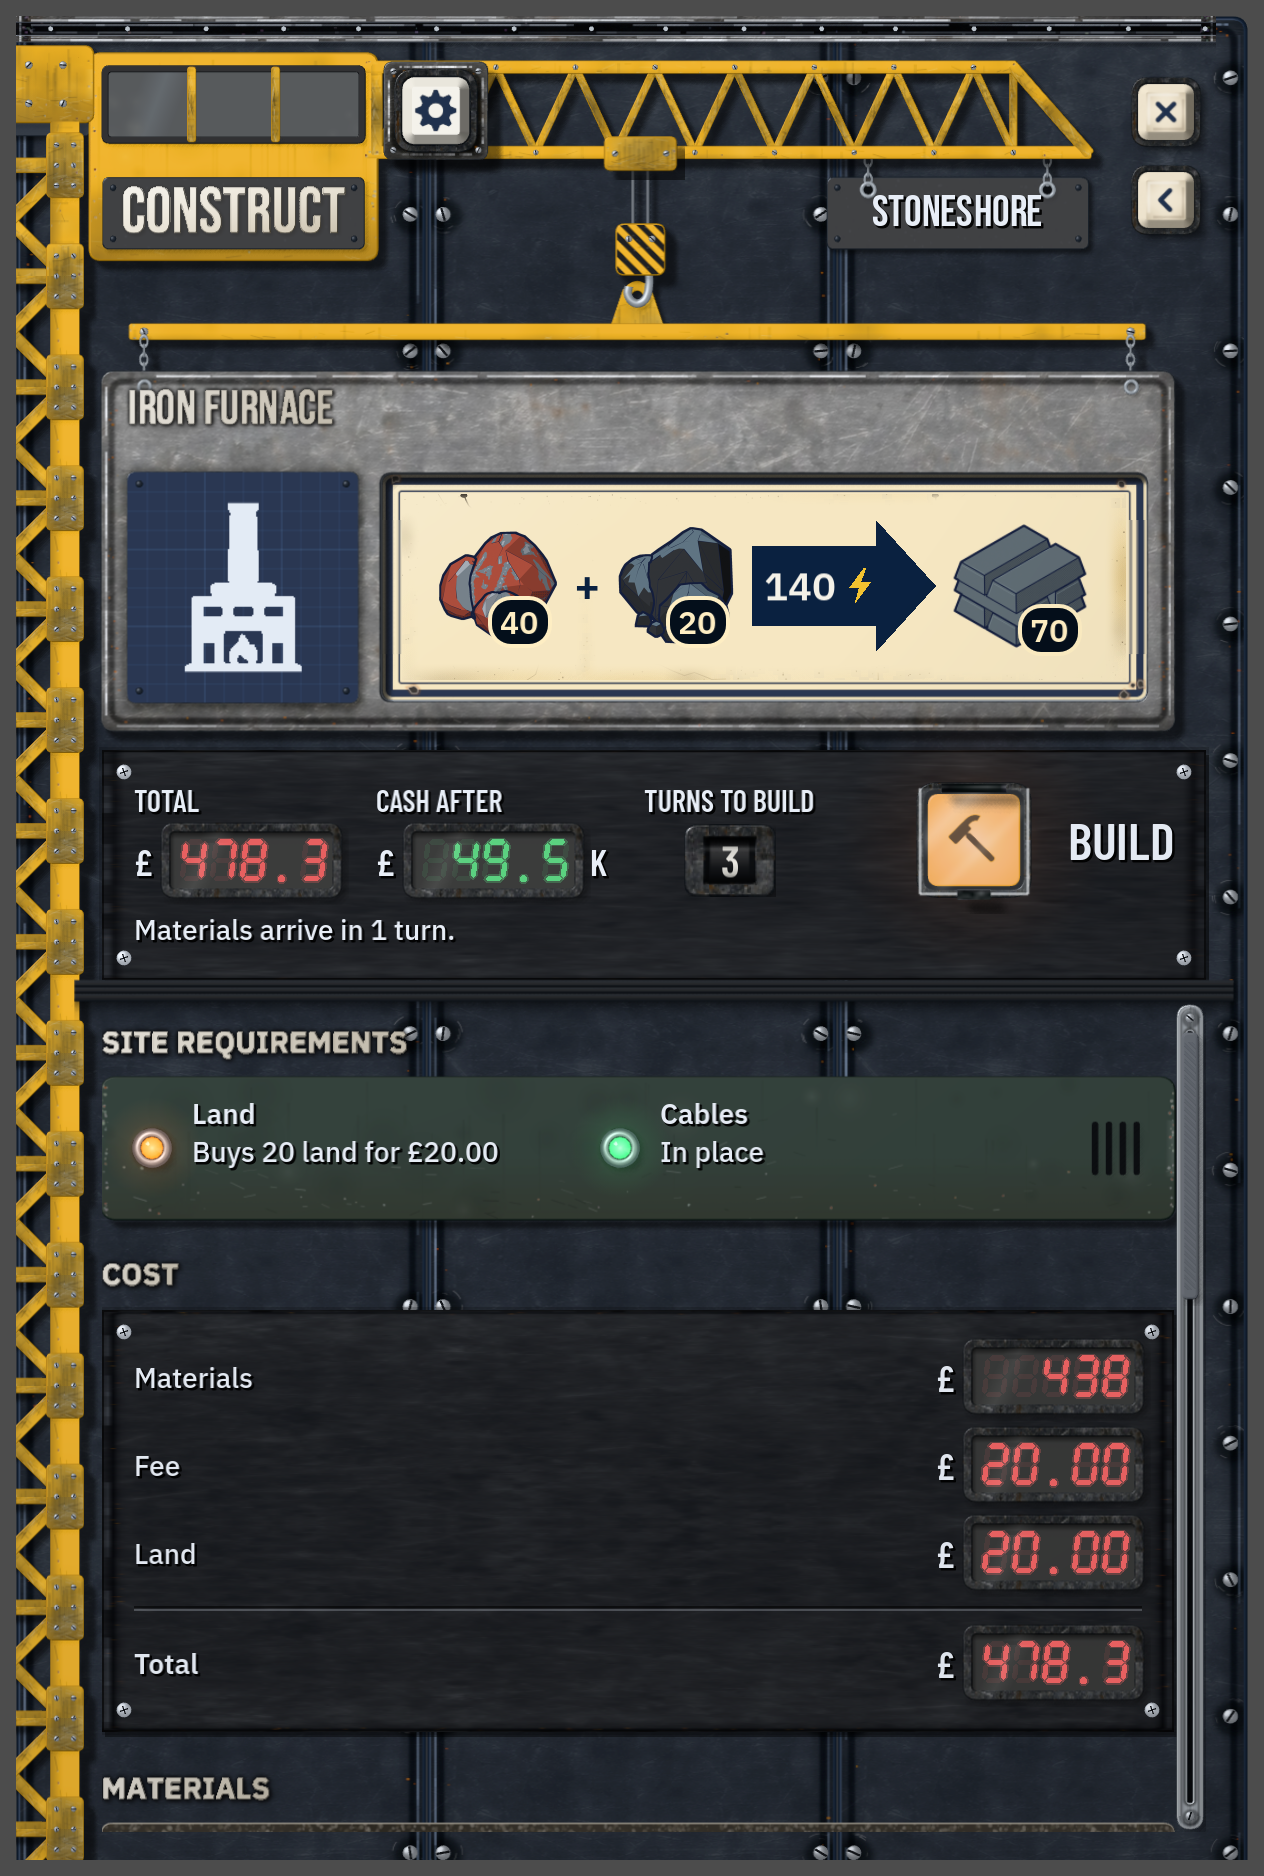
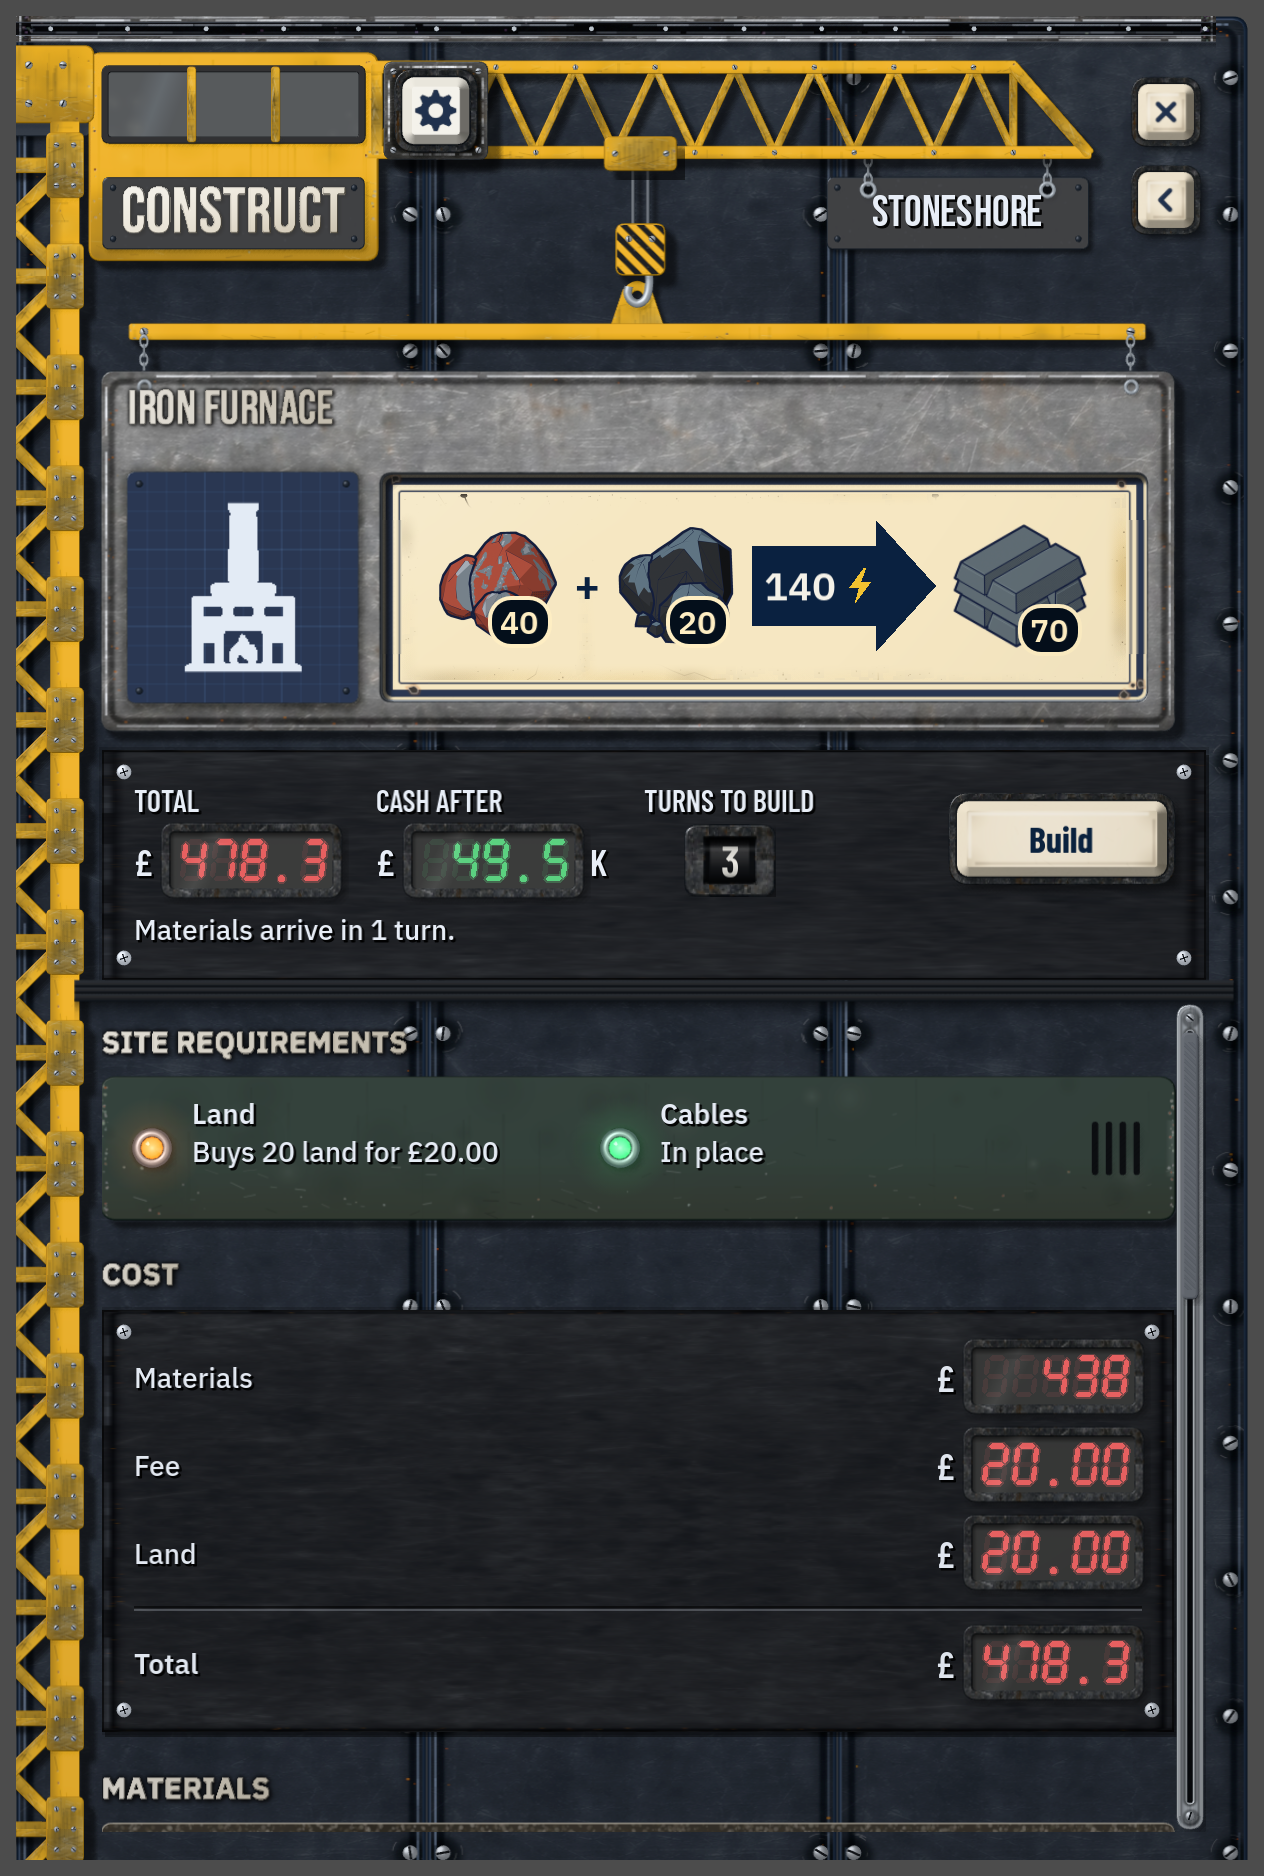
Construct panel DS2: a plain Build key, and a refused press lights what blocks
The owner: the Build key stays high in the verdict, quick to decide, but as
a plain cream key rather than the guarded cap. Refused, it prints red, and
a press makes the part that blocks glow instead of building: the money
(Cash after), the land's row, or the requirement that blocks.

Land follows the Construct setting Auto-buy land until the player chooses
on the build order; with it off and the tile short, the Land row offers a
Buy land key on a pillar of its own.

Changed region(s): [[0.7097, 0.4019, 0.9256, 0.4947]]

diff --git a/price-of-everything-0.1/docs/construct-ds2-plan.md b/price-of-everything-0.1/docs/construct-ds2-plan.md
@@ -113,9 +113,10 @@ Each body is reviewed against §2's scenarios, up to three rounds, as the tile v
 **Built so far (27 September 2026).**
 
 - **The panel.** `scripts/construct_ds2/construct_ds2.gd` extends `construct_panel_v2.gd`: every way in, the state, Confirm and the handles the tutorial and tests look up are the parent's; the shell and the build order are its own. `bottom_menu.gd` builds it in place of today's panel while the flag is on and rebuilds it when the flag flips (`_construct_v2_script`, `_on_construct_ds2_changed`), under the same name, `ConstructPanelV2`.
-- **The build order** (`scripts/construct_ds2/build_order.gd`): the site board on the hook (the name raised, the icon printed flat as a blueprint from its emblem's silhouette, `flat_print.gdshader`, the recipe on an enamel sign in the board's recess), the verdict on the cabin desk (Total and Cash after on LEDs, Turns to build on a drum, when the materials arrive, the guarded Build key named `BuildConfirmButton`), the seam; then the requirements on the feeder pillar (two lamps a pillar), the cost in the cabin, the materials yard (a good on its pallet in its well, a white label with what is on the tile and elsewhere, the Materials from knob in the sixth bay, which sets `MatchState.pending_build_material_source`), the outlook on the programme board and the land lot. The Build key's refusal is the quote's first block (`_v3_confirm_block_reason`).
+- **The build order** (`scripts/construct_ds2/build_order.gd`): the site board on the hook (the name raised, the icon printed flat as a blueprint from its emblem's silhouette, `flat_print.gdshader`, the recipe on an enamel sign in the board's recess), the verdict on the cabin desk (Total and Cash after on LEDs, Turns to build on a drum, when the materials arrive, the Build key named `BuildConfirmButton`: a plain cream key, not guarded (owner, 27 September); refused, it prints red and a press makes the blocking part glow, the money or the land's row or the requirement, `flag_blocker`), the seam; then the requirements on the feeder pillar (two lamps a pillar), the cost in the cabin, the materials yard (a good on its pallet in its well, a white label with what is on the tile and elsewhere, the Materials from knob in the sixth bay, which sets `MatchState.pending_build_material_source`), the outlook on the programme board and the land lot. The Build key's refusal is the quote's first block (`_v3_confirm_block_reason`).
 - **Renders** (`tools/button_mockup/cluster.html`, inside the `constructlot` block so they share the study's parts; the study still renders byte identical): `constructhead` (464: `construct_head`, `construct_mast`, `construct_placard`, `construct_trolley`, `construct_rig`, `construct_hoarding`), `constructboard` (465: `construct_board`, `guard_build` and its pressed and cover layers), `constructyard` (466: `construct_yard`, `construct_pallet`, `construct_pillar`, `construct_lot`, `construct_slab`, `construct_stake`, `construct_tape`), `constructcat` (467: `construct_settings` and `_pressed`, `construct_catplate`, `construct_card`, `construct_tag`). Each is placed by the game at its `origin` in layout px.
 - **The catalogue** (`scripts/construct_ds2/catalogue.gd`, 27 September): the black control plate under the crane, its tab rising under the jib with the search set into its dark glass, the nine category keys (the tile view's latching keys, one latched while its category is shown) in two rows; an enamel site board per building, two to a row (the blueprint icon, the name, the price on a red LED, `quote()`'s total for the building on the site), dimmed with the reason on its hover when no recipe can be built there or the money is short; the building opened across the width with its recipes hung under it on chains as enamel tags (the name it will take, the recipe condensed or expanded as the Construct setting says). The goods filter shows as a line with a Show all key (finding 6). Names kept: `BuildingCard_<id>`, `RecipeRow_<id>`, `Filter_<category>`.
+- **Land** follows the Construct setting Auto-buy land until the player chooses on the build order: with it off and the tile short, the Land row says what it would buy and offers a **Buy land** key (the old confirm's land tickbox, `buy_land`).
 - **Settings on the crane** (owner, 27 September): a steel plate bolted over the jib's root beside the cab, a white plastic key with a chamfered bevel and a navy gear (`construct_settings`, `_pressed`); it opens the settings and, pressed again, comes back.
 - **Captures:** `tools/construct_ds2_shot.tscn`: the catalogue (whole, the Furnace opened condensed and expanded, Metallurgy picked, the goods filter), the settings, the build order on Stoneshore at its top, middle and foot, the build order with no site. Step one in `artifacts/construct_ds2/ds2_v1/`, with the catalogue in `ds2_v2/`.
 - **Tests:** `tests/unit/test_construct_ds2.gd`.

diff --git a/price-of-everything-0.1/docs/ds2-owner-decisions.md b/price-of-everything-0.1/docs/ds2-owner-decisions.md
@@ -68,6 +68,8 @@ The rulings the owner made while the top bar, the updates dock and the tile view
 - **Materials**: no per good prices (the materials total speaks for them), the goods in a grid of two columns and three rows on one backing, the Materials from knob in the sixth cell. **The intermediary is the default source**, since it is faster.
 - **A recipe is drawn, not named**: on a building's board the icon on the left and the recipe diagram in enamel on the right, expanded or condensed as the Construct setting says.
 - **Names**: the building by what it makes, without its letter until built: "Iron Furnace", "Copper Furnace"; where several recipes make the same thing, the recipe tells them apart: "Motor Assembly Plant", "SynRM Motor Assembly Plant".
+- **The Build key** (27 September) stays high in the verdict, where it is quick to decide, but as a plain cream key, not the guarded cap: building is not that big a decision. Refused, it prints red, and a press makes the part that blocks glow instead of building: the money (Cash after), or the land's row when auto buy land is off (the row then offers Buy land), or the requirement that blocks.
+- **The settings key** (27 September) is a white plastic key with a bevel and a navy gear, on a plate on the crane (over the jib's root, beside the cab).
 - **Every name in `docs/building-names.md` is approved as the table proposed it**, including the 19 rows that were marked for a second look (Limestone Mine, Sand Mine, Hairpin Stator Motor Assembly Plant and the rest). Only the unloaded farm recipes remain open.
 - **Building icons**: the polished relief with its soft grey edge looked wrong; a simple emboss or flat print (a blueprint) is being compared.
 
